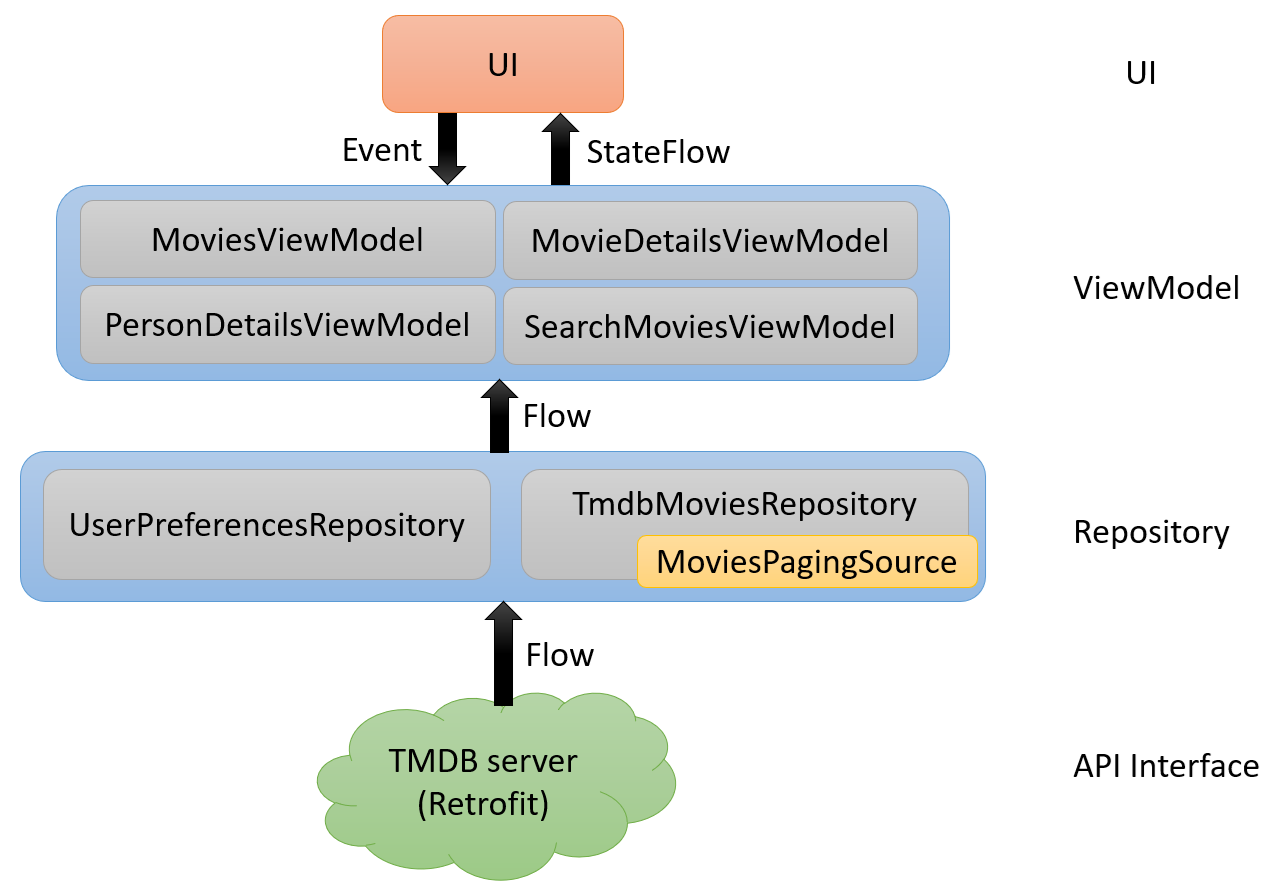
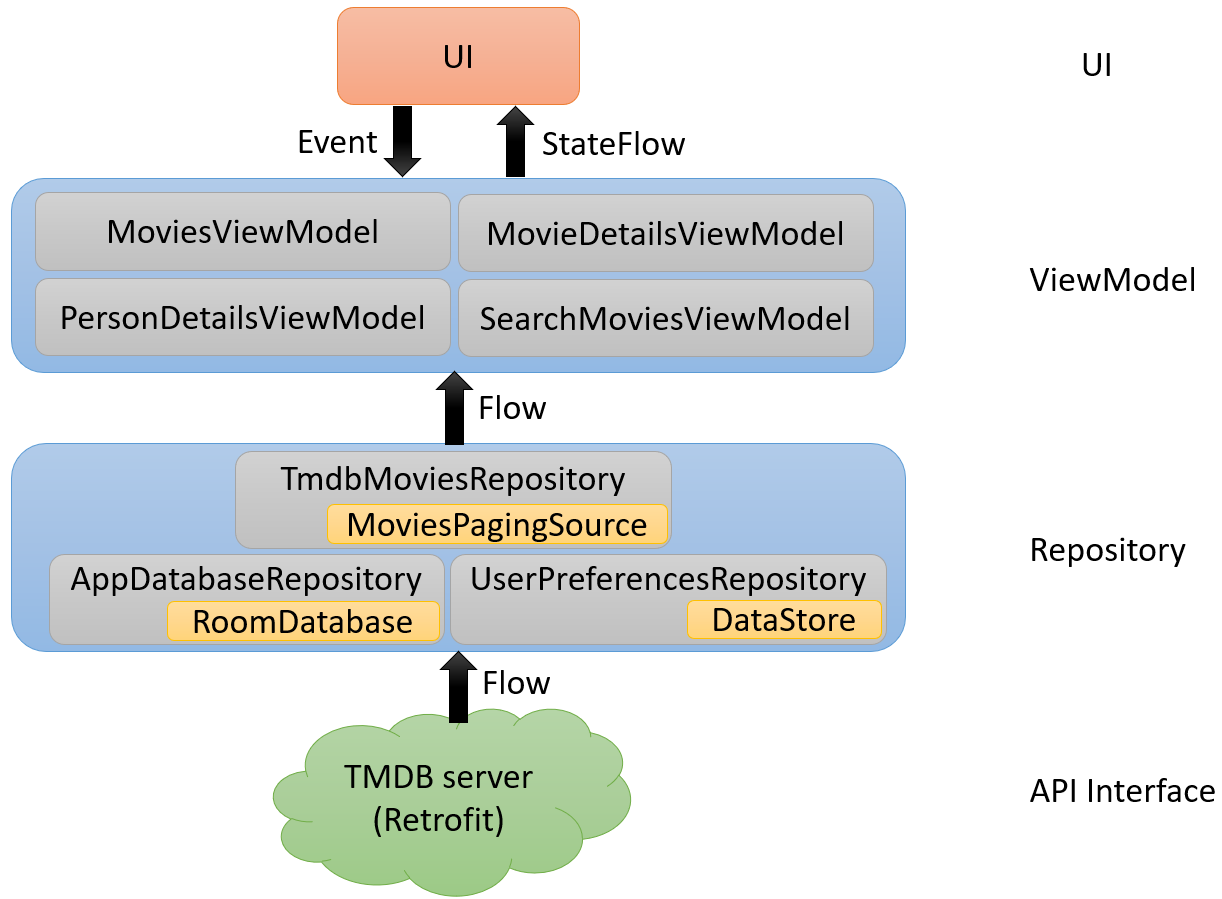
Make search keywords unique, update README.MD

diff --git a/app/src/main/java/tw/neilchen/sample/mymovies/ui/screen/SearchMoviesScreen.kt b/app/src/main/java/tw/neilchen/sample/mymovies/ui/screen/SearchMoviesScreen.kt
@@ -47,7 +47,6 @@ import androidx.lifecycle.compose.collectAsStateWithLifecycle
 import androidx.paging.LoadState
 import androidx.paging.compose.LazyPagingItems
 import androidx.paging.compose.collectAsLazyPagingItems
-import timber.log.Timber
 import tw.neilchen.sample.mymovies.R
 import tw.neilchen.sample.mymovies.data.Movie
 import tw.neilchen.sample.mymovies.ui.common.CircularProgressLoading
@@ -96,34 +95,25 @@ fun SearchBarContent(
     val focusRequester = remember { FocusRequester() }
     var keyword by rememberSaveable { mutableStateOf("") }
     var firstLaunched by rememberSaveable { mutableStateOf(true) }
-    var expanded by remember { mutableStateOf(false) }
+    var dropdownMenuExpanded by remember { mutableStateOf(false) }
 
     LaunchedEffect(Unit) {
         if (firstLaunched) {
             firstLaunched = false
-            expanded = true
-            //delay(1000)
-            //focusRequester.requestFocus()
+            dropdownMenuExpanded = true
+//            focusRequester.requestFocus()
         }
     }
 
     ExposedDropdownMenuBox(
-        expanded = expanded,
-        onExpandedChange = {
-            Timber.d("onExpandedChange, ${expanded}, $it")
-//            expanded = !expanded
-            expanded = it
-        },
+        expanded = dropdownMenuExpanded,
+        onExpandedChange = { dropdownMenuExpanded = it },
         modifier = modifier
     ) {
         TextField(
             value = keyword,
             placeholder = { Text(stringResource(R.string.search_movie_placeholder)) },
-            onValueChange = {
-                keyword = it
-                Timber.d("onValueChange, ${expanded}, $it")
-//                expanded = true
-            },
+            onValueChange = { keyword = it },
             singleLine = true,
             keyboardOptions = KeyboardOptions(
                 imeAction = ImeAction.Search,
@@ -132,7 +122,7 @@ fun SearchBarContent(
             keyboardActions = KeyboardActions(
                 onSearch = {
                     focusManager.clearFocus()
-                    expanded = false
+                    dropdownMenuExpanded = false
                     onSearch(keyword)
                 }
             ),
@@ -145,10 +135,10 @@ fun SearchBarContent(
                 )
                 .onFocusChanged {
                     if (it.isFocused) {
-                        //expanded = true
+//                        dropdownMenuExpanded = true
                         keyboardController?.show()
                     } else {
-                        //expanded = false
+//                        dropdownMenuExpanded = false
                         keyboardController?.hide()
                     }
                 },
@@ -166,7 +156,7 @@ fun SearchBarContent(
                 IconButton(
                     onClick = {
                         focusManager.clearFocus()
-                        expanded = false
+                        dropdownMenuExpanded = false
                         onSearch(keyword)
                     }
                 ) {
@@ -177,24 +167,20 @@ fun SearchBarContent(
                 }
             }
         )
+
         ExposedDropdownMenu(
-            expanded = expanded,
-            onDismissRequest = {
-                Timber.d("onDismissRequest, expanded=${expanded}")
-                expanded = false
-            }
+            expanded = dropdownMenuExpanded,
+            onDismissRequest = { dropdownMenuExpanded = false }
         ) {
             suggestions
                 .filter { it.contains(keyword, ignoreCase = true) }
                 .forEach { suggestion ->
                     DropdownMenuItem(
-                        text = {
-                            Text(suggestion)
-                        },
+                        text = { Text(text = suggestion) },
                         onClick = {
                             keyword = suggestion
-                            expanded = false
                             focusManager.clearFocus()
+                            dropdownMenuExpanded = false
                             onSearch(suggestion)
                         },
                         contentPadding = PaddingValues(start = 16.dp, end = 16.dp)

diff --git a/app/src/main/java/tw/neilchen/sample/mymovies/database/SearchKeywordDao.kt b/app/src/main/java/tw/neilchen/sample/mymovies/database/SearchKeywordDao.kt
@@ -3,6 +3,7 @@ package tw.neilchen.sample.mymovies.database
 import androidx.room.Dao
 import androidx.room.Delete
 import androidx.room.Insert
+import androidx.room.OnConflictStrategy
 import androidx.room.Query
 import kotlinx.coroutines.flow.Flow
 import tw.neilchen.sample.mymovies.data.SearchKeyword
@@ -12,7 +13,7 @@ interface SearchKeywordDao {
     @Query("SELECT * FROM search_keywords ORDER BY added_at DESC")
     fun getAll(): Flow<List<SearchKeyword>>
 
-    @Insert
+    @Insert(onConflict = OnConflictStrategy.REPLACE)
     suspend fun insert(searchKeyword: SearchKeyword)
 
     @Delete

diff --git a/app/src/main/java/tw/neilchen/sample/mymovies/data/SearchKeyword.kt b/app/src/main/java/tw/neilchen/sample/mymovies/data/SearchKeyword.kt
@@ -2,10 +2,14 @@ package tw.neilchen.sample.mymovies.data
 
 import androidx.room.ColumnInfo
 import androidx.room.Entity
+import androidx.room.Index
 import androidx.room.PrimaryKey
 import java.util.Date
 
-@Entity(tableName = "search_keywords")
+/**
+ * The entity representing the user's search history.
+ */
+@Entity(tableName = "search_keywords", indices = [Index(value = ["keyword"], unique = true)])
 data class SearchKeyword(
     @PrimaryKey(autoGenerate = true) val id: Int = 0,
     @ColumnInfo(name = "keyword") val keyword: String,

diff --git a/app/src/main/java/tw/neilchen/sample/mymovies/ui/viewmodel/SearchMoviesViewModel.kt b/app/src/main/java/tw/neilchen/sample/mymovies/ui/viewmodel/SearchMoviesViewModel.kt
@@ -12,7 +12,6 @@ import kotlinx.coroutines.flow.MutableStateFlow
 import kotlinx.coroutines.flow.SharingStarted
 import kotlinx.coroutines.flow.StateFlow
 import kotlinx.coroutines.flow.combine
-import kotlinx.coroutines.flow.flatMapConcat
 import kotlinx.coroutines.flow.flatMapLatest
 import kotlinx.coroutines.flow.flowOn
 import kotlinx.coroutines.flow.map

diff --git a/README.MD b/README.MD
@@ -36,11 +36,11 @@ Latest released apk: [my-movies-v1.0.1.apk](https://github.com/neilchennc/my-mov
 
 - **Material Design** - Color and style theming.
 
-- **Hilt** - The dependency injection.
+- **Hilt** - The dependency injection library.
 
-- **Coil** - Load images from the network.
+- **Coil** - Load images from the network library.
 
-- **Retrofit** - HTTP API requests.
+- **Retrofit** - HTTP API requests library.
 
 - **Paging library** - Load and display pages of data from a network.
 
